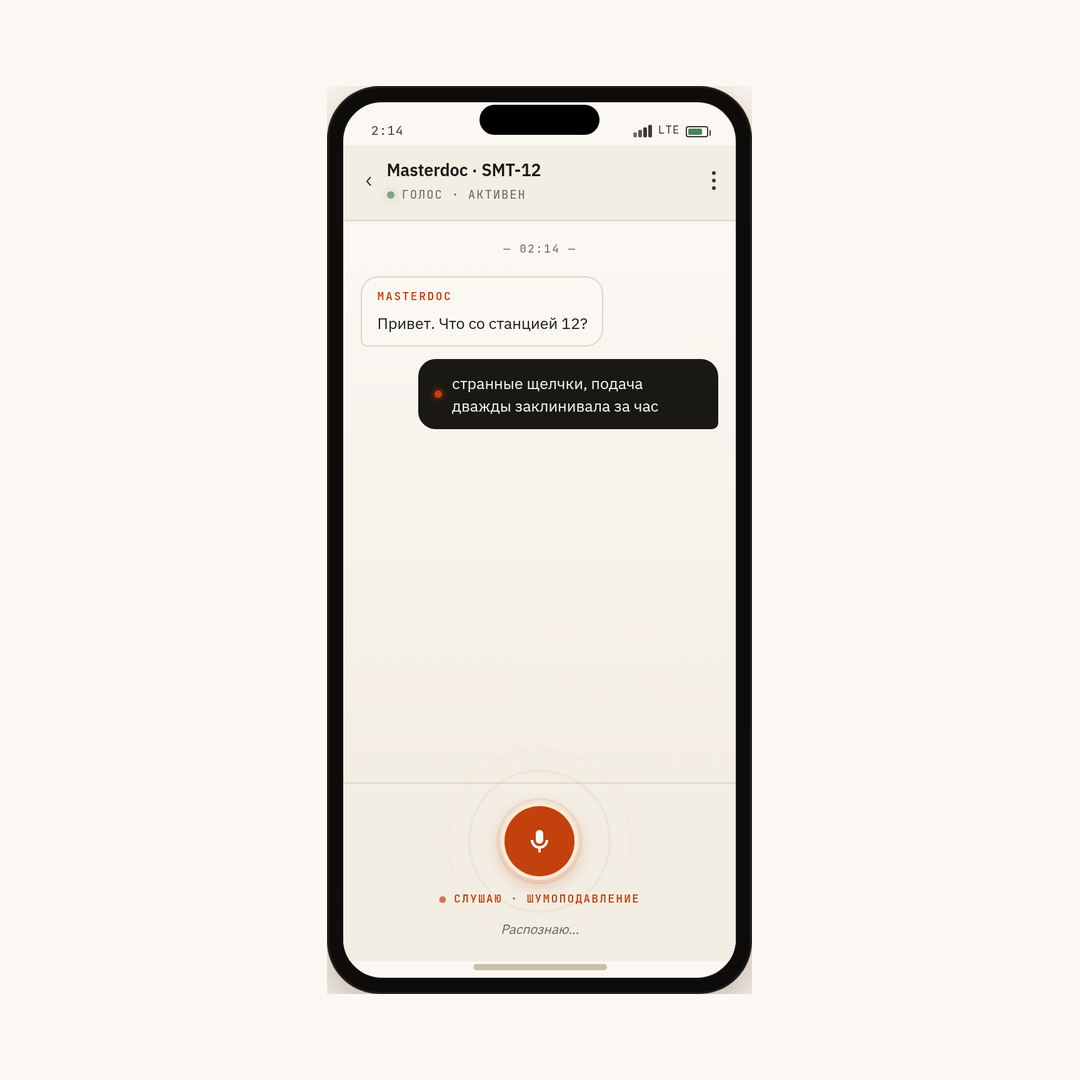
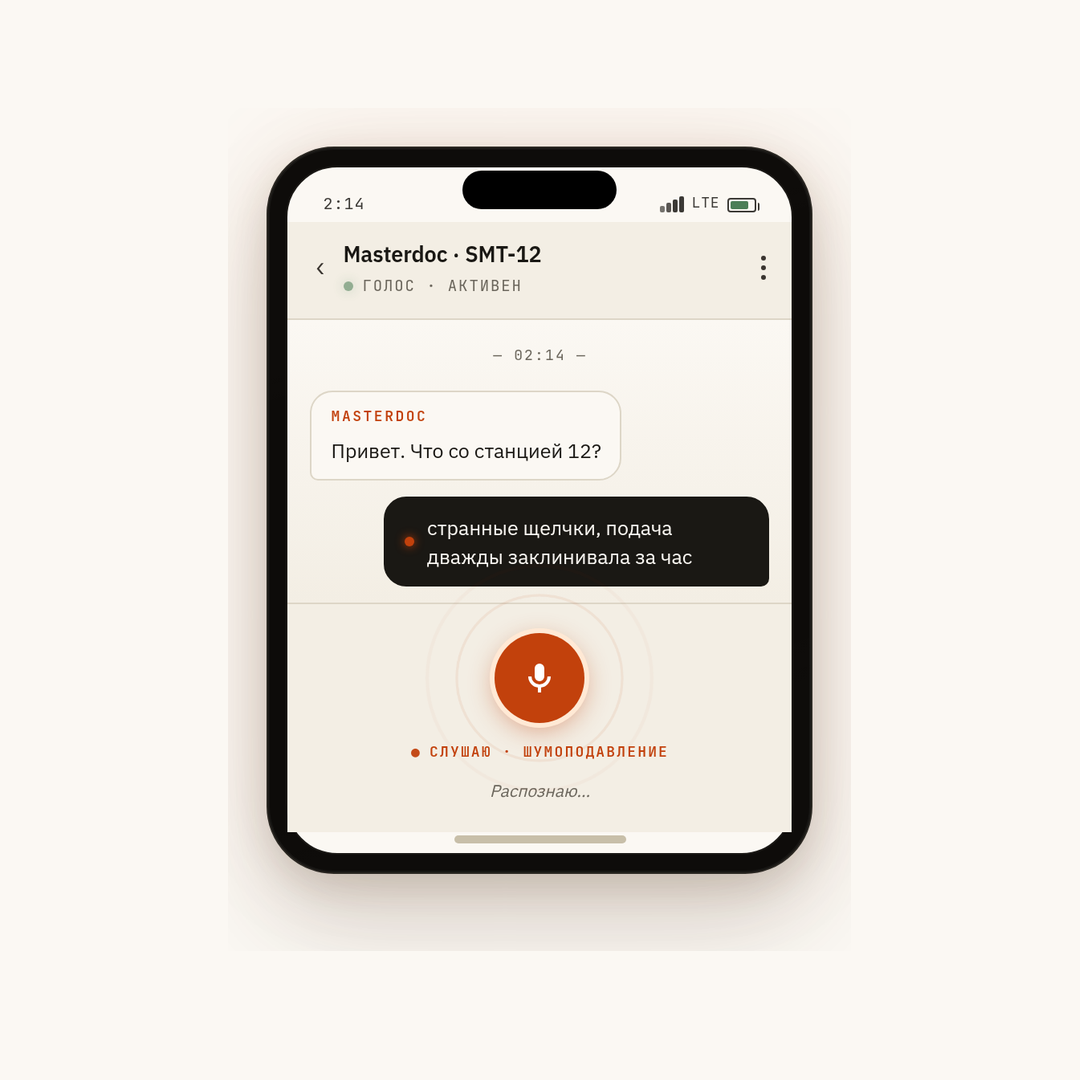
Fix ad image bottom crop: full phone content in captures.
Disable fixed aspect-ratio during capture, add clip padding, and compose with extra bottom margin for Direct assets.

Changed region(s): [[0.2139, 0.0611, 0.7944, 0.9472], [0.3972, 0.5806, 0.6111, 0.7028]]

diff --git a/scripts/build-ad-images.py b/scripts/build-ad-images.py
@@ -1,0 +1,43 @@
+#!/usr/bin/env python3
+"""Compose Yandex Direct PNGs from scripts/.phone-capture.png (run capture-ad-phone.mjs first)."""
+from pathlib import Path
+from PIL import Image
+
+BG = (251, 248, 243)
+ROOT = Path(__file__).resolve().parent.parent
+SRC = ROOT / 'landing' / 'assets' / '.phone-capture.png'
+OUT = ROOT / 'landing' / 'assets'
+
+
+def compose(out_w: int, out_h: int, path: Path, bottom_extra: float = 0.04) -> None:
+    phone = Image.open(SRC).convert('RGB')
+    canvas = Image.new('RGB', (out_w, out_h), BG)
+    margin_top = int(min(out_w, out_h) * 0.10)
+    margin_side = int(min(out_w, out_h) * 0.10)
+    margin_bottom = int(min(out_w, out_h) * (0.10 + bottom_extra))
+    max_h = out_h - margin_top - margin_bottom
+    max_w = out_w - 2 * margin_side
+    r = phone.width / phone.height
+    nh = max_h
+    nw = int(nh * r)
+    if nw > max_w:
+        nw = max_w
+        nh = int(nw / r)
+    ph = phone.resize((nw, nh), Image.Resampling.LANCZOS)
+    x = (out_w - nw) // 2
+    y = margin_top + (max_h - nh) // 2
+    canvas.paste(ph, (x, y))
+    canvas.save(path, 'PNG', optimize=True)
+    print(path, f'{nw}x{nh}')
+
+
+def main() -> None:
+    if not SRC.exists():
+        raise SystemExit(f'Missing {SRC}. Run: node scripts/capture-ad-phone.mjs')
+    compose(1080, 1080, OUT / 'ad-direct-1080x1080.png', bottom_extra=0.02)
+    compose(1080, 607, OUT / 'ad-direct-1080x607.png', bottom_extra=0.06)
+    compose(450, 450, OUT / 'ad-direct-450x450.png', bottom_extra=0.02)
+
+
+if __name__ == '__main__':
+    main()
